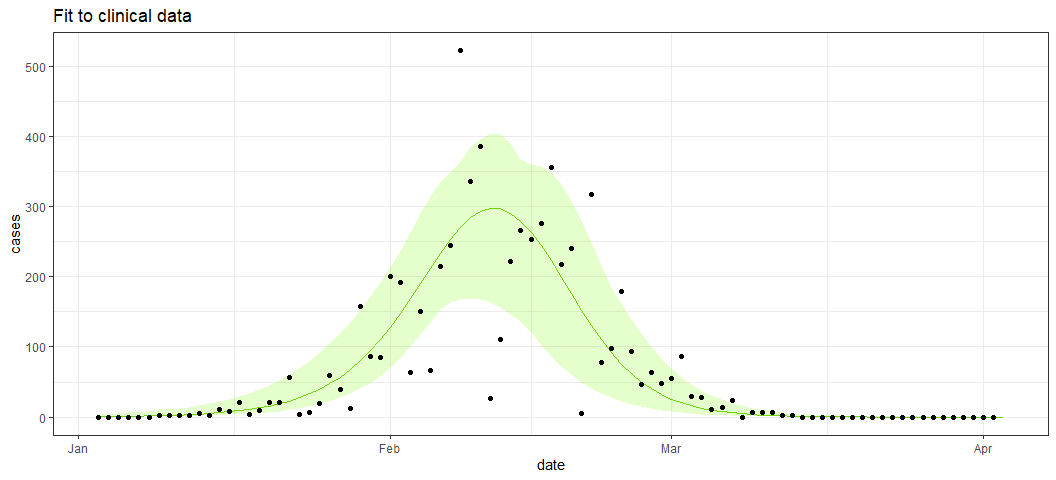
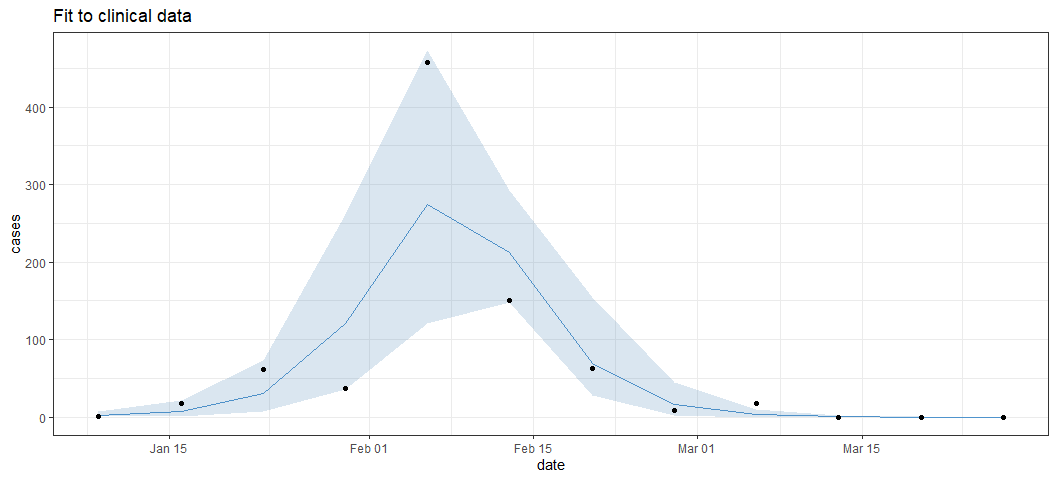
fix README (in progress)

diff --git a/README.md b/README.md
@@ -54,12 +54,18 @@ library(snowfall)
 ``` r
 # Define model parameters
 
+date.start = lubridate::ymd('2022-01-01')
+hz = 90
+
 prms = list(
-  horizon  = 90,  # horizon of the simulation
-  last.obs = 88,  # last observation time (must be < horizon)
-  B        = rep(1,90), # time dependent multiplicative factor for transmission
+  horizon  = hz,  # horizon of the simulation
+  last.obs = hz-1,  # last observation time (must be < horizon)
+  B        = rep(1,hz), # time dependent multiplicative factor for transmission
   i0prop  = 1e-3,  # initial proportion of the population infected
-  date.start = lubridate::ymd('2022-01-01'), # start date of the epidemic
+  date.start = date.start, # start date of the epidemic
+  date.obs.cl = date.start + seq(7,hz-2, by = 7),
+  date.obs.ha = date.start + seq(12,hz-2, by = 10),
+  date.obs.ww = date.start + seq(3,hz-2, by=14),
   start.delta = 0, 
   R0      = 2.0, # Basic reproduction number
   N       = 1e4, # population size
@@ -69,6 +75,8 @@ prms = list(
   rho     = 0.1, # mean reporting ratio
   g       = get_gi(), # Generation interval distribution
   fec     = get_fecalshed(), # fecal shedding kinetics
+  h.prop  = 0.05, # total proportion hospitalized for one cohort
+  h.lags  = c(rep(0,3), 1, 2, 2, 1, 0), # Lag infection-hospitalization
   kappa   = 0.18, # pathogen decay in ww
   psi     = get_psi(), # plug flow simulation,
   shed.mult = 0.2 # deposited fecal shedding multiplier  
@@ -84,26 +92,30 @@ obj = new('reem',
 obj$print_prms()
 ```
 
-    ## 
-    ## --- Parameters for REEM ` foo `
-    ## horizon  =  90 
-    ## last.obs  =  88 
-    ## B  =  1 1 1 1 1 1 1 1 1 1 1 1 1 1 1 1 1 1 1 1 1 1 1 1 1 1 1 1 1 1 1 1 1 1 1 1 1 1 1 1 1 1 1 1 1 1 1 1 1 1 1 1 1 1 1 1 1 1 1 1 1 1 1 1 1 1 1 1 1 1 1 1 1 1 1 1 1 1 1 1 1 1 1 1 1 1 1 1 1 1 
-    ## i0prop  =  0.001 
-    ## date.start  =  18993 
-    ## start.delta  =  0 
-    ## R0  =  2 
-    ## N  =  10000 
-    ## alpha  =  0 
-    ## I.init  =  1 1 3 5 
-    ## lag  =  7 
-    ## rho  =  0.1 
-    ## g  =  0 0.02432345 0.3100143 0.3955746 0.1967229 0.05837831 0.01249735 0.002135546 0.000309429 3.952736e-05 4.571663e-06 
-    ## fec  =  0.001341379 0.04085834 0.1509359 0.2350638 0.2280526 0.1640111 0.09593837 0.04824391 0.02161408 0.008840312 0.003358844 0.001200831 0.0004079245 0.0001326712 
-    ## kappa  =  0.18 
-    ## psi  =  0.85 0.1 0.05 
-    ## shed.mult  =  0.2 
-    ##  --------------------------
+    ## [1] "--- Parameters for REEM `foo`"
+    ## [1] "horizon  =  90"
+    ## [1] "last.obs  =  89"
+    ## [1] "B  =  1 1 1 1 1 1 1 1 1 1 1 1 1 1 1 1 1 1 1 1 1 1 1 1 1 1 1 1 1 1 1 1 1 1 1 1 1 1 1 1 1 1 1 1 1 1 1 1 1 1 1 1 1 1 1 1 1 1 1 1 1 1 1 1 1 1 1 1 1 1 1 1 1 1 1 1 1 1 1 1 1 1 1 1 1 1 1 1 1 1"
+    ## [1] "i0prop  =  0.001"
+    ## [1] "date.start  =  2022-01-01"
+    ## [1] "date.obs.cl  =  2022-01-08 2022-01-15 2022-01-22 2022-01-29 2022-02-05 2022-02-12 2022-02-19 2022-02-26 2022-03-05 2022-03-12 2022-03-19 2022-03-26"
+    ## [1] "date.obs.ha  =  2022-01-13 2022-01-23 2022-02-02 2022-02-12 2022-02-22 2022-03-04 2022-03-14 2022-03-24"
+    ## [1] "date.obs.ww  =  2022-01-04 2022-01-18 2022-02-01 2022-02-15 2022-03-01 2022-03-15 2022-03-29"
+    ## [1] "start.delta  =  0"
+    ## [1] "R0  =  2"
+    ## [1] "N  =  10000"
+    ## [1] "alpha  =  0"
+    ## [1] "I.init  =  1 1 3 5"
+    ## [1] "lag  =  7"
+    ## [1] "rho  =  0.1"
+    ## [1] "g  =  0 0.0243234546096934 0.310014335384433 0.395574605155377 0.196722869409776 0.0583783087064439 0.012497352838116 0.00213554586302256 0.000309429013608888 3.95273561429204e-05 4.57166338566992e-06"
+    ## [1] "fec  =  0.00134137901554801 0.0408583357618263 0.15093586091606 0.235063772361137 0.228052582048147 0.164011132815058 0.0959383656310772 0.0482439053838456 0.0216140831805828 0.00884031240675856 0.003358844003011 0.00120083077846915 0.000407924497133254 0.00013267120134534"
+    ## [1] "h.prop  =  0.05"
+    ## [1] "h.lags  =  0 0 0 1 2 2 1 0"
+    ## [1] "kappa  =  0.18"
+    ## [1] "psi  =  0.85 0.1 0.05"
+    ## [1] "shed.mult  =  0.2"
+    ## [1] " --------------------------"
 
 ``` r
 # Simulate an epidemic based on the parameters
@@ -128,7 +140,7 @@ parameters to these data. The example below shows how to do this.
 First, let’s create synthetic observation data from the simulation
 example above. We use synthetic data (as opposed to real data) because
 we to assess the accuracy of the fit. The synthetic data are generated
-from the vey same model `reem` where we know all the parameters.
+from the very same model `reem` where we know all the parameters.
 
 ``` r
 # we use the example above and make a copy of its
@@ -142,6 +154,7 @@ asof = lubridate::ymd('2023-03-01')
 # Retrieve the simulated observations
 obs.cl = dplyr::filter(sim.data$obs.cl, date <= asof)
 obs.ww = dplyr::filter(simepi$obs.ww, date <= asof)
+obs.ha = dplyr::filter(simepi$obs.ha, date <= asof)
 
 # shift the dates such that they 
 # do not perfectly align with the simulation
@@ -150,11 +163,13 @@ obs.cl$date <- obs.cl$date + 1
 
 # Attached (simulated) data to new `reem` object:
 prms$t.obs.cl <- NULL
+prms$t.obs.ha <- NULL
 prms$t.obs.ww <- NULL
 obj  = new('reem', 
            name = 'foo2', 
            prms = prms, 
            obs.cl = obs.cl,
+           obs.ha = obs.ha,
            obs.ww = obs.ww,
            is.fitted = FALSE)
 ```
@@ -171,8 +186,9 @@ prm.abc = list(
   p.abc = 0.02,  # Acceptance probability (the lower the better)
   n.cores = 1,   # number of cores used for parallel computing
   use.cl = TRUE, # use clinical observations in the fit?
+  use.ha = TRUE, # use hospital admissions in the fit?
   use.ww = TRUE, # use wastewater observation in the fit?
-  err.type = 'L2'# Type of error calculated during the fit.
+  err.type = 'normlarge'# Type of error calculated during the fit.
 )
 
 # Define the priors of the parameters to be fitted:
@@ -200,15 +216,21 @@ thefit = obj$fit_abc(prm.abc, prms.to.fit)
     ## 
     ## Target data sources :
     ##   clinical   = yes
+    ##   hosp. adm. = yes
     ##   wastewater = yes
     ## 
     ## Number of priors     : 500
     ## Number of posteriors : 10 (accept ratio = 0.02)
     ## Number of cores      : 1 (500 iters per core)
     ## 
-    ## Data horizon : 92 (days) 
+    ## Data horizon : 88 (days) 
     ## 
     ## ---------------------
+
+    ## Warning in searchCommandline(parallel, cpus = cpus, type = type, socketHosts =
+    ## socketHosts, : Unknown option on commandline:
+    ## rmarkdown::render('C:/Users/DCHAMPRE/OneDrive - HC-SC
+    ## PHAC-ASPC/GitHub/reem/README.Rmd', encoding
 
     ## snowfall 1.84-6.3 initialized: sequential execution, one CPU.
 
@@ -231,13 +253,113 @@ thefit = obj$fit_abc(prm.abc, prms.to.fit)
 
     ## ABC iteration # 1 / 500
 
-    ## Warning in check_obs_schedule(obj): Observation times/dates for wastewater data
-    ## not specified: assuming ww observation schedule at every time step.
+    ## Warning in rnorm(n = length(Wp), mean = Wp, sd = Wp * 0.2): NAs produced
 
-    ## Warning in check_obs_schedule(obj): Observation times/dates for clinical data
-    ## not specified: assuming clinical observation schedule at every time step.
+    ## Warning in rnorm(n = length(Wp), mean = Wp, sd = Wp * 0.2): NAs produced
+    ## Warning in rnorm(n = length(Wp), mean = Wp, sd = Wp * 0.2): NAs produced
+    ## Warning in rnorm(n = length(Wp), mean = Wp, sd = Wp * 0.2): NAs produced
+    ## Warning in rnorm(n = length(Wp), mean = Wp, sd = Wp * 0.2): NAs produced
+    ## Warning in rnorm(n = length(Wp), mean = Wp, sd = Wp * 0.2): NAs produced
+    ## Warning in rnorm(n = length(Wp), mean = Wp, sd = Wp * 0.2): NAs produced
+    ## Warning in rnorm(n = length(Wp), mean = Wp, sd = Wp * 0.2): NAs produced
+    ## Warning in rnorm(n = length(Wp), mean = Wp, sd = Wp * 0.2): NAs produced
+    ## Warning in rnorm(n = length(Wp), mean = Wp, sd = Wp * 0.2): NAs produced
+    ## Warning in rnorm(n = length(Wp), mean = Wp, sd = Wp * 0.2): NAs produced
+    ## Warning in rnorm(n = length(Wp), mean = Wp, sd = Wp * 0.2): NAs produced
+    ## Warning in rnorm(n = length(Wp), mean = Wp, sd = Wp * 0.2): NAs produced
+    ## Warning in rnorm(n = length(Wp), mean = Wp, sd = Wp * 0.2): NAs produced
+    ## Warning in rnorm(n = length(Wp), mean = Wp, sd = Wp * 0.2): NAs produced
+    ## Warning in rnorm(n = length(Wp), mean = Wp, sd = Wp * 0.2): NAs produced
+    ## Warning in rnorm(n = length(Wp), mean = Wp, sd = Wp * 0.2): NAs produced
+    ## Warning in rnorm(n = length(Wp), mean = Wp, sd = Wp * 0.2): NAs produced
+    ## Warning in rnorm(n = length(Wp), mean = Wp, sd = Wp * 0.2): NAs produced
+    ## Warning in rnorm(n = length(Wp), mean = Wp, sd = Wp * 0.2): NAs produced
+    ## Warning in rnorm(n = length(Wp), mean = Wp, sd = Wp * 0.2): NAs produced
+    ## Warning in rnorm(n = length(Wp), mean = Wp, sd = Wp * 0.2): NAs produced
+    ## Warning in rnorm(n = length(Wp), mean = Wp, sd = Wp * 0.2): NAs produced
+    ## Warning in rnorm(n = length(Wp), mean = Wp, sd = Wp * 0.2): NAs produced
+    ## Warning in rnorm(n = length(Wp), mean = Wp, sd = Wp * 0.2): NAs produced
+    ## Warning in rnorm(n = length(Wp), mean = Wp, sd = Wp * 0.2): NAs produced
+    ## Warning in rnorm(n = length(Wp), mean = Wp, sd = Wp * 0.2): NAs produced
+    ## Warning in rnorm(n = length(Wp), mean = Wp, sd = Wp * 0.2): NAs produced
+    ## Warning in rnorm(n = length(Wp), mean = Wp, sd = Wp * 0.2): NAs produced
+    ## Warning in rnorm(n = length(Wp), mean = Wp, sd = Wp * 0.2): NAs produced
+    ## Warning in rnorm(n = length(Wp), mean = Wp, sd = Wp * 0.2): NAs produced
+    ## Warning in rnorm(n = length(Wp), mean = Wp, sd = Wp * 0.2): NAs produced
+    ## Warning in rnorm(n = length(Wp), mean = Wp, sd = Wp * 0.2): NAs produced
+    ## Warning in rnorm(n = length(Wp), mean = Wp, sd = Wp * 0.2): NAs produced
+    ## Warning in rnorm(n = length(Wp), mean = Wp, sd = Wp * 0.2): NAs produced
+    ## Warning in rnorm(n = length(Wp), mean = Wp, sd = Wp * 0.2): NAs produced
+    ## Warning in rnorm(n = length(Wp), mean = Wp, sd = Wp * 0.2): NAs produced
+    ## Warning in rnorm(n = length(Wp), mean = Wp, sd = Wp * 0.2): NAs produced
+    ## Warning in rnorm(n = length(Wp), mean = Wp, sd = Wp * 0.2): NAs produced
+    ## Warning in rnorm(n = length(Wp), mean = Wp, sd = Wp * 0.2): NAs produced
+    ## Warning in rnorm(n = length(Wp), mean = Wp, sd = Wp * 0.2): NAs produced
+    ## Warning in rnorm(n = length(Wp), mean = Wp, sd = Wp * 0.2): NAs produced
+    ## Warning in rnorm(n = length(Wp), mean = Wp, sd = Wp * 0.2): NAs produced
+    ## Warning in rnorm(n = length(Wp), mean = Wp, sd = Wp * 0.2): NAs produced
+    ## Warning in rnorm(n = length(Wp), mean = Wp, sd = Wp * 0.2): NAs produced
+    ## Warning in rnorm(n = length(Wp), mean = Wp, sd = Wp * 0.2): NAs produced
+    ## Warning in rnorm(n = length(Wp), mean = Wp, sd = Wp * 0.2): NAs produced
+    ## Warning in rnorm(n = length(Wp), mean = Wp, sd = Wp * 0.2): NAs produced
+    ## Warning in rnorm(n = length(Wp), mean = Wp, sd = Wp * 0.2): NAs produced
+    ## Warning in rnorm(n = length(Wp), mean = Wp, sd = Wp * 0.2): NAs produced
+    ## Warning in rnorm(n = length(Wp), mean = Wp, sd = Wp * 0.2): NAs produced
+    ## Warning in rnorm(n = length(Wp), mean = Wp, sd = Wp * 0.2): NAs produced
+    ## Warning in rnorm(n = length(Wp), mean = Wp, sd = Wp * 0.2): NAs produced
+    ## Warning in rnorm(n = length(Wp), mean = Wp, sd = Wp * 0.2): NAs produced
+    ## Warning in rnorm(n = length(Wp), mean = Wp, sd = Wp * 0.2): NAs produced
+    ## Warning in rnorm(n = length(Wp), mean = Wp, sd = Wp * 0.2): NAs produced
+    ## Warning in rnorm(n = length(Wp), mean = Wp, sd = Wp * 0.2): NAs produced
+    ## Warning in rnorm(n = length(Wp), mean = Wp, sd = Wp * 0.2): NAs produced
+    ## Warning in rnorm(n = length(Wp), mean = Wp, sd = Wp * 0.2): NAs produced
+    ## Warning in rnorm(n = length(Wp), mean = Wp, sd = Wp * 0.2): NAs produced
+    ## Warning in rnorm(n = length(Wp), mean = Wp, sd = Wp * 0.2): NAs produced
+    ## Warning in rnorm(n = length(Wp), mean = Wp, sd = Wp * 0.2): NAs produced
+    ## Warning in rnorm(n = length(Wp), mean = Wp, sd = Wp * 0.2): NAs produced
+    ## Warning in rnorm(n = length(Wp), mean = Wp, sd = Wp * 0.2): NAs produced
+    ## Warning in rnorm(n = length(Wp), mean = Wp, sd = Wp * 0.2): NAs produced
+    ## Warning in rnorm(n = length(Wp), mean = Wp, sd = Wp * 0.2): NAs produced
+    ## Warning in rnorm(n = length(Wp), mean = Wp, sd = Wp * 0.2): NAs produced
+    ## Warning in rnorm(n = length(Wp), mean = Wp, sd = Wp * 0.2): NAs produced
+    ## Warning in rnorm(n = length(Wp), mean = Wp, sd = Wp * 0.2): NAs produced
+    ## Warning in rnorm(n = length(Wp), mean = Wp, sd = Wp * 0.2): NAs produced
+    ## Warning in rnorm(n = length(Wp), mean = Wp, sd = Wp * 0.2): NAs produced
+    ## Warning in rnorm(n = length(Wp), mean = Wp, sd = Wp * 0.2): NAs produced
+    ## Warning in rnorm(n = length(Wp), mean = Wp, sd = Wp * 0.2): NAs produced
+    ## Warning in rnorm(n = length(Wp), mean = Wp, sd = Wp * 0.2): NAs produced
+    ## Warning in rnorm(n = length(Wp), mean = Wp, sd = Wp * 0.2): NAs produced
+    ## Warning in rnorm(n = length(Wp), mean = Wp, sd = Wp * 0.2): NAs produced
+    ## Warning in rnorm(n = length(Wp), mean = Wp, sd = Wp * 0.2): NAs produced
+    ## Warning in rnorm(n = length(Wp), mean = Wp, sd = Wp * 0.2): NAs produced
+    ## Warning in rnorm(n = length(Wp), mean = Wp, sd = Wp * 0.2): NAs produced
+    ## Warning in rnorm(n = length(Wp), mean = Wp, sd = Wp * 0.2): NAs produced
+    ## Warning in rnorm(n = length(Wp), mean = Wp, sd = Wp * 0.2): NAs produced
+    ## Warning in rnorm(n = length(Wp), mean = Wp, sd = Wp * 0.2): NAs produced
+    ## Warning in rnorm(n = length(Wp), mean = Wp, sd = Wp * 0.2): NAs produced
+    ## Warning in rnorm(n = length(Wp), mean = Wp, sd = Wp * 0.2): NAs produced
+    ## Warning in rnorm(n = length(Wp), mean = Wp, sd = Wp * 0.2): NAs produced
+    ## Warning in rnorm(n = length(Wp), mean = Wp, sd = Wp * 0.2): NAs produced
+    ## Warning in rnorm(n = length(Wp), mean = Wp, sd = Wp * 0.2): NAs produced
+    ## Warning in rnorm(n = length(Wp), mean = Wp, sd = Wp * 0.2): NAs produced
+    ## Warning in rnorm(n = length(Wp), mean = Wp, sd = Wp * 0.2): NAs produced
+    ## Warning in rnorm(n = length(Wp), mean = Wp, sd = Wp * 0.2): NAs produced
+    ## Warning in rnorm(n = length(Wp), mean = Wp, sd = Wp * 0.2): NAs produced
+    ## Warning in rnorm(n = length(Wp), mean = Wp, sd = Wp * 0.2): NAs produced
+    ## Warning in rnorm(n = length(Wp), mean = Wp, sd = Wp * 0.2): NAs produced
+    ## Warning in rnorm(n = length(Wp), mean = Wp, sd = Wp * 0.2): NAs produced
+    ## Warning in rnorm(n = length(Wp), mean = Wp, sd = Wp * 0.2): NAs produced
+    ## Warning in rnorm(n = length(Wp), mean = Wp, sd = Wp * 0.2): NAs produced
+    ## Warning in rnorm(n = length(Wp), mean = Wp, sd = Wp * 0.2): NAs produced
+    ## Warning in rnorm(n = length(Wp), mean = Wp, sd = Wp * 0.2): NAs produced
+    ## Warning in rnorm(n = length(Wp), mean = Wp, sd = Wp * 0.2): NAs produced
+    ## Warning in rnorm(n = length(Wp), mean = Wp, sd = Wp * 0.2): NAs produced
 
     ## ABC iteration # 500 / 500
+
+``` r
+#saveRDS(obj, file = "obj_fitted.rds")
+```
 
 Once the ABC fit is completed, we can call built-in functions to assess
 the goodness of fit.
@@ -254,10 +376,16 @@ plot(gg$traj.cl)
 ![](README_files/figure-gfm/plot_fit_results-1.png)<!-- -->
 
 ``` r
-plot(gg$traj.ww)
+plot(gg$traj.ha)
 ```
 
 ![](README_files/figure-gfm/plot_fit_results-2.png)<!-- -->
+
+``` r
+plot(gg$traj.ww)
+```
+
+![](README_files/figure-gfm/plot_fit_results-3.png)<!-- -->
 
 We can also plot the posterior distributions of the fitted parameters
 (with their prior distribution overlayed in grey):
@@ -285,4 +413,13 @@ iterations
 plot(gg$dist)
 ```
 
+    ## Warning: Removed 68 rows containing missing values or values outside the scale range
+    ## (`geom_step()`).
+
 ![](README_files/figure-gfm/plot%20fitted%20distances-1.png)<!-- -->
+
+``` r
+plot(gg$dist.source)
+```
+
+![](README_files/figure-gfm/plot%20fitted%20distances-2.png)<!-- -->
